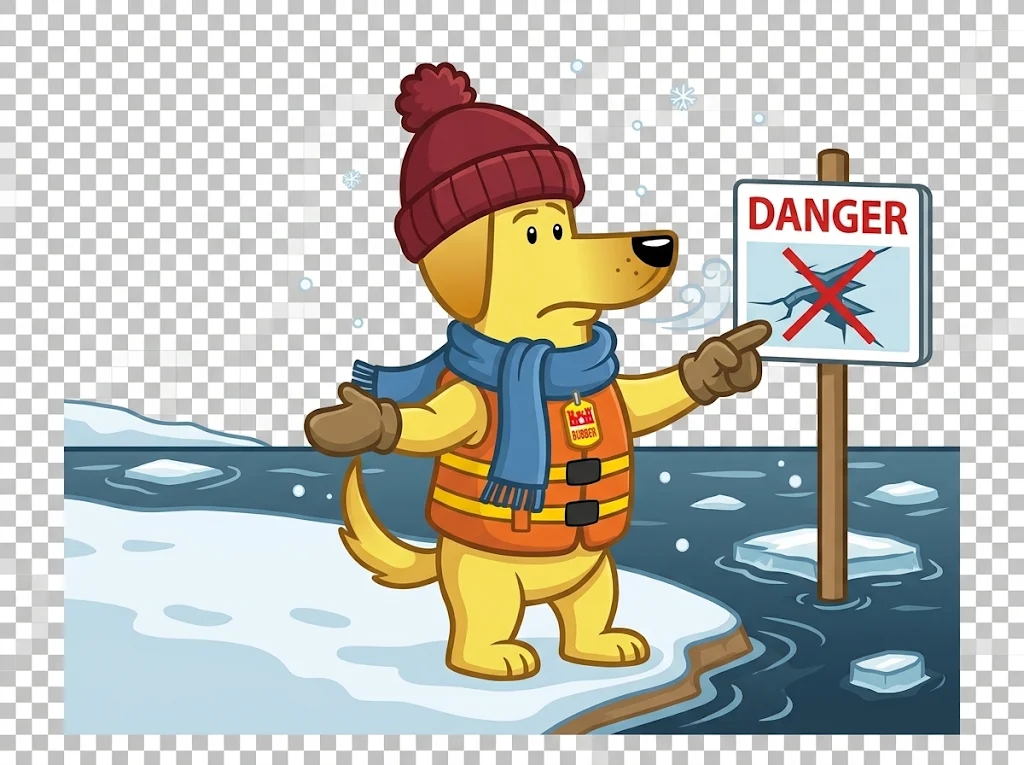
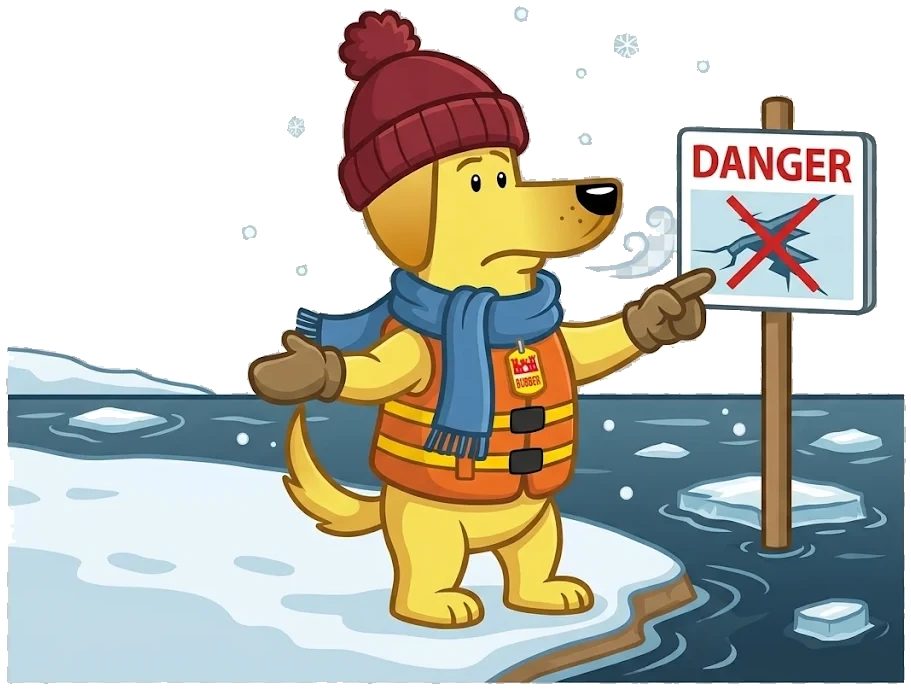
Illustrate the cold-water card with the new Bobber art

diff --git a/styles.css b/styles.css
@@ -497,32 +497,6 @@ button:focus-visible, a:focus-visible, input:focus-visible {
   letter-spacing: .1em;
 }
 
-.safety-symbol {
-  width: 66px;
-  height: 66px;
-  display: grid;
-  place-items: center;
-  background: #e5f1eb;
-  border-radius: 50%;
-  color: var(--teal);
-  font-size: 30px;
-}
-
-.safety-card:nth-child(2) .safety-symbol {
-  background: #fbf2d7;
-  color: #a98229;
-}
-
-.safety-card:nth-child(3) .safety-symbol {
-  background: #fce9e2;
-  color: var(--coral-dark);
-}
-
-.safety-card:nth-child(4) .safety-symbol {
-  background: #e5f1f3;
-  color: #508995;
-}
-
 .safety-card h3 {
   margin: 18px 0 8px;
   font: 800 17px/1.25 var(--display);
@@ -1171,12 +1145,6 @@ html[data-theme="dark"] .library-note a {
     padding: 18px 14px;
   }
 
-  .safety-symbol {
-    width: 37px;
-    height: 37px;
-    font-size: 20px;
-  }
-
   .safety-card h3 {
     margin: 14px 0 7px;
     font-size: 15px;
@@ -1470,26 +1438,6 @@ html[data-theme="dark"] .safety-heading>p, html[data-theme="dark"] .safety-card 
 html[data-theme="dark"] .safety-card {
   background: #213336;
   box-shadow: 0 8px 24px #00000015;
-}
-
-html[data-theme="dark"] .safety-card:nth-child(1) .safety-symbol {
-  background: #2c4947;
-  color: #a1dfd0;
-}
-
-html[data-theme="dark"] .safety-card:nth-child(2) .safety-symbol {
-  background: #49432f;
-  color: #f0d276;
-}
-
-html[data-theme="dark"] .safety-card:nth-child(3) .safety-symbol {
-  background: #4a3531;
-  color: #ff9a7d;
-}
-
-html[data-theme="dark"] .safety-card:nth-child(4) .safety-symbol {
-  background: #2b4145;
-  color: #a1d4dc;
 }
 
 html[data-theme="dark"] .safety-footnote, html[data-theme="dark"] .source-note {
@@ -2164,9 +2112,9 @@ html[data-theme="dark"] .educator-section {
   80% { transform: rotate(-4deg); }
 }
 
-.safety-card:hover .safety-symbol,
+.safety-card:hover .safety-art,
 .visit-card:hover .visit-icon,
-.safety-card:focus-within .safety-symbol,
+.safety-card:focus-within .safety-art,
 .visit-card:focus-within .visit-icon {
   animation: bobber-wiggle .65s ease;
 }
@@ -2177,9 +2125,9 @@ html[data-theme="dark"] .educator-section {
 }
 
 @media(prefers-reduced-motion:reduce) {
-  .safety-card:hover .safety-symbol,
+  .safety-card:hover .safety-art,
   .visit-card:hover .visit-icon,
-  .safety-card:focus-within .safety-symbol,
+  .safety-card:focus-within .safety-art,
   .visit-card:focus-within .visit-icon,
   .video-card:hover .video-play,
   .video-card:focus-within .video-play {
@@ -3122,10 +3070,6 @@ html[data-theme="dark"] {
 
 .safety-card:nth-child(4) {
   --bar: #65a1ac;
-}
-
-.safety-symbol {
-  border: 3px solid var(--outline);
 }
 
 .video-card:hover, .resource-card:hover, .visit-card:hover, .educator-card:hover {

diff --git a/index.html b/index.html
@@ -154,7 +154,7 @@
           </article>
           <article class="safety-card">
             <span class="safety-number" aria-hidden="true">04</span>
-            <span class="safety-symbol" aria-hidden="true">❄</span>
+            <img class="safety-art" src="assets/bobber/bobber-cold-water.webp" alt="">
             <h3>Respect cold water</h3>
             <p>Cold water can be dangerous even on a warm day. Dress for the water, stay alert, and don’t take chances.</p>
             <div class="spanish-copy" id="safety-es-cold" lang="es" hidden>
